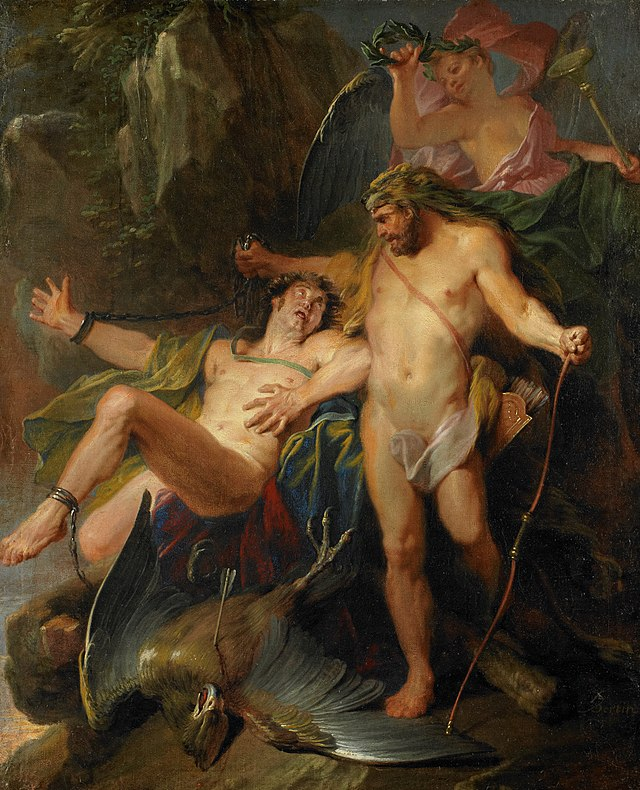
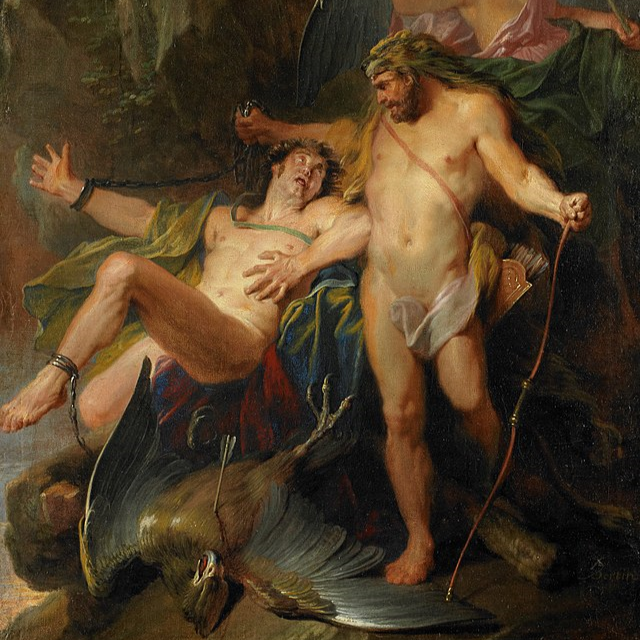
updated images on project cards to Hercules-themed options

diff --git a/projects.html b/projects.html
@@ -60,7 +60,7 @@
                     <div class="card h-100 shadow-sm">
 
                         <div class="card-body">
-                            <img src="images/hercules_labours.png" class="card-img-top mb-3" alt="Project One">
+                            <img src="images/hercules_labours.png" class="card-img-top mb-3" alt="Hercules fighting the Nemean Lion">
                             <h5 class="card-title fw-bold">1. Completed 12 Labours</h5>
                             <p class="card-text">Completed 12 "impossible" tasks for King Eurystheus, in penance for
                                 killing my family. Demonstrated incredible strength, cunning, and perseverance.</p>
@@ -72,7 +72,7 @@
                     <div class="card h-100 shadow-sm">
 
                         <div class="card-body">
-                            <img src="https://picsum.photos/200" class="card-img-top mb-3" alt="Project Two">
+                            <img src="images/hercules_athena.png" class="card-img-top mb-3" alt="Hercules and the goddess Athena">
                             <h5 class="card-title fw-bold">2. Joined the Argonauts</h5>
                             <p class="card-text">Joined the crew of Jason and the Argonauts on their quest for the
                                 Golden Fleece, demonstrating courage, leadership and teamwork.</p>
@@ -84,7 +84,7 @@
                     <div class="card h-100 shadow-sm">
 
                         <div class="card-body">
-                            <img src="https://picsum.photos/200" class="card-img-top mb-3" alt="Project Three">
+                            <img src="images/hercules_prometheus.png" class="card-img-top mb-3" alt="Hercules saving Prometheus">
                             <h5 class="card-title fw-bold">3. Rescued Prometheus</h5>
                             <p class="card-text">Rescued the Titan Prometheus from his chains, defying the gods and
                                 showing compassion and empathy.</p>
